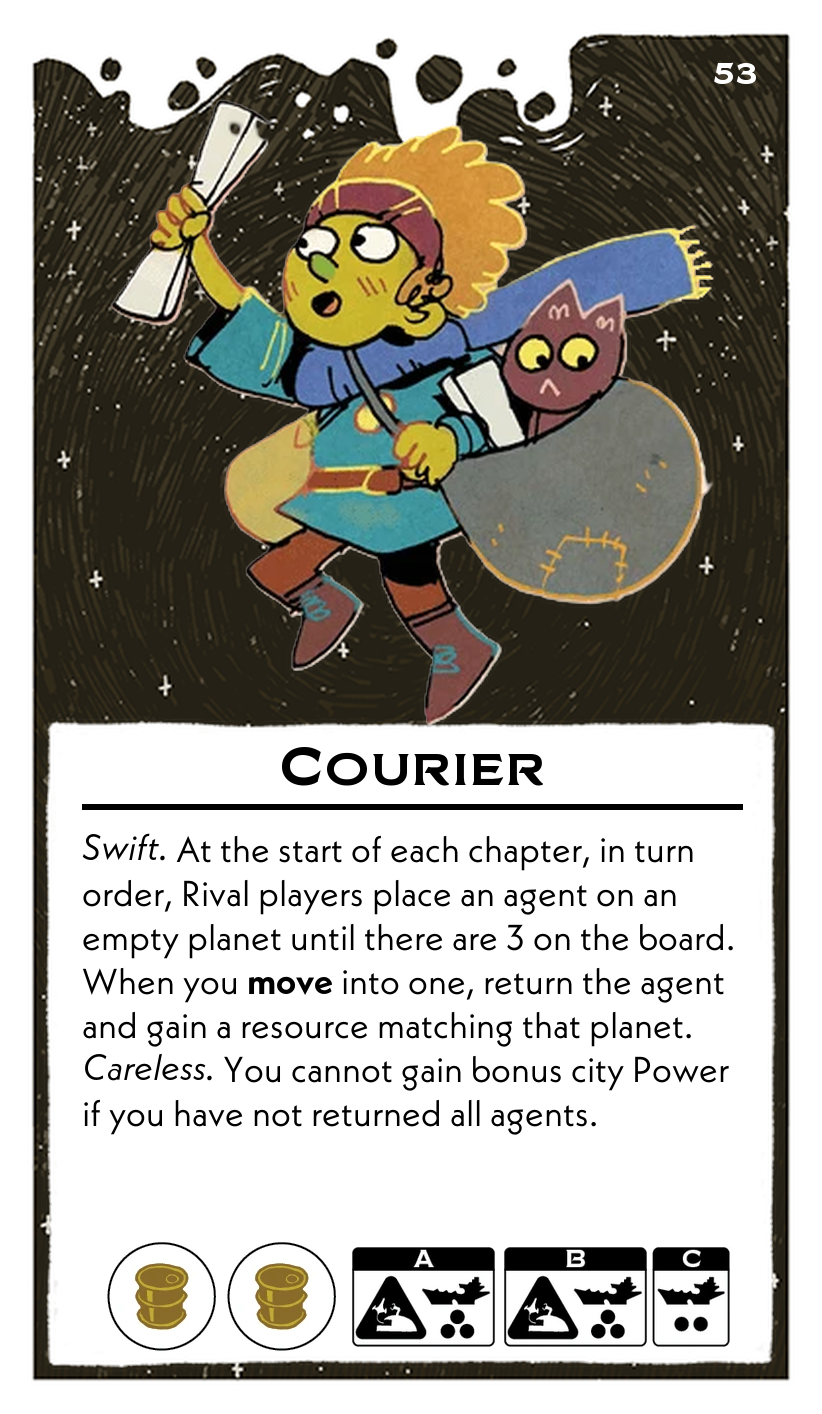
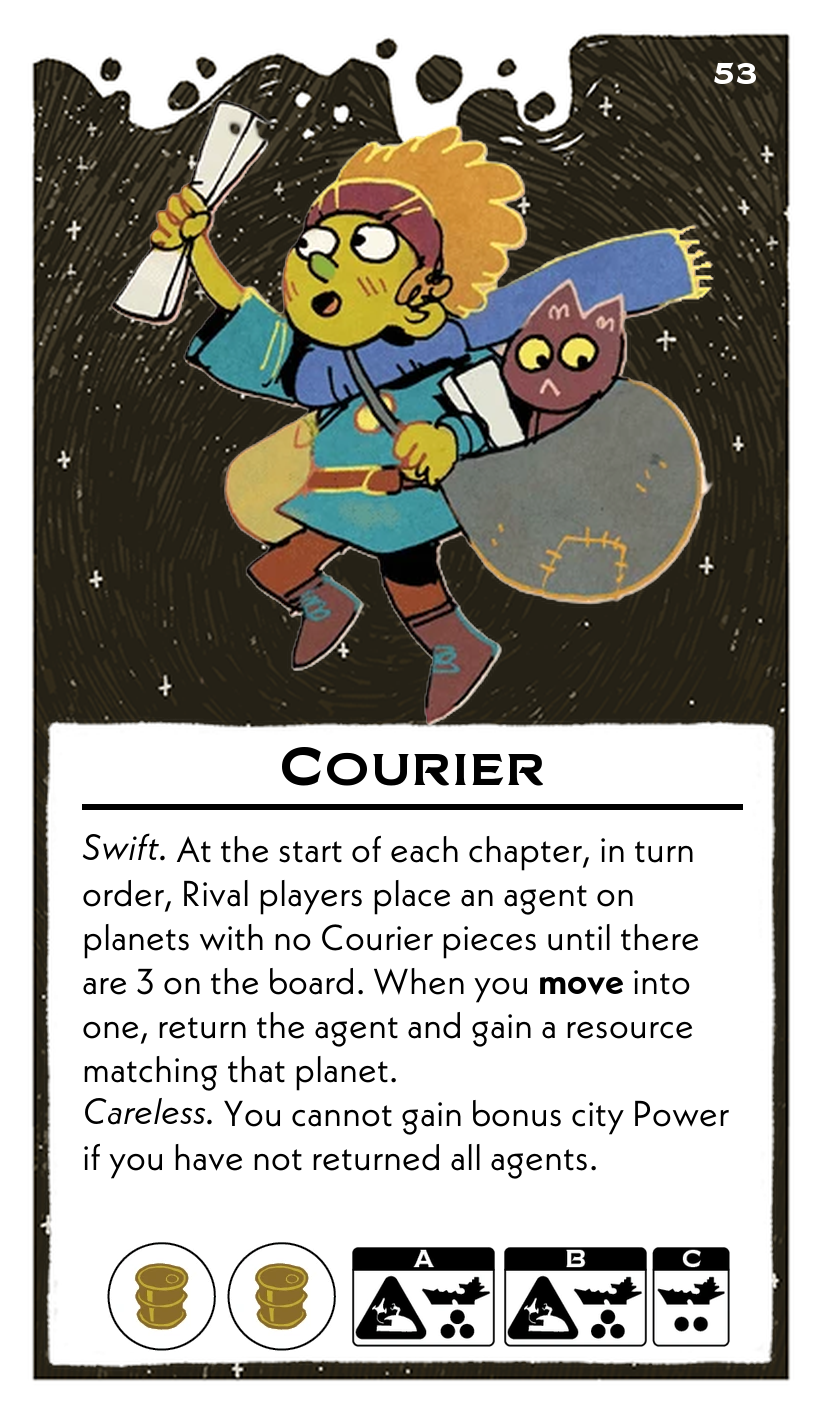
courier

Changed region(s): [[0.0912, 0.6223, 0.882, 0.8402]]

diff --git a/scripts/leadersFormatted.py b/scripts/leadersFormatted.py
@@ -812,7 +812,7 @@ leaders = [
     {
         "name": "Courier",
         "abilities": (
-            "*Swift.* At the start of each chapter, in turn order, Rival players place an agent on an empty planet until there are 3 on the board. When you **move** into one, return the agent and gain a resource matching that planet.\n"
+            "*Swift.* At the start of each chapter, in turn order, Rival players place an agent on planets with no Courier pieces until there are 3 on the board. When you **move** into one, return the agent and gain a resource matching that planet.\n"
             "*Careless.* You cannot gain bonus city Power if you have not returned all agents."
         ),
         "resources": ["Fuel", "Fuel"],
